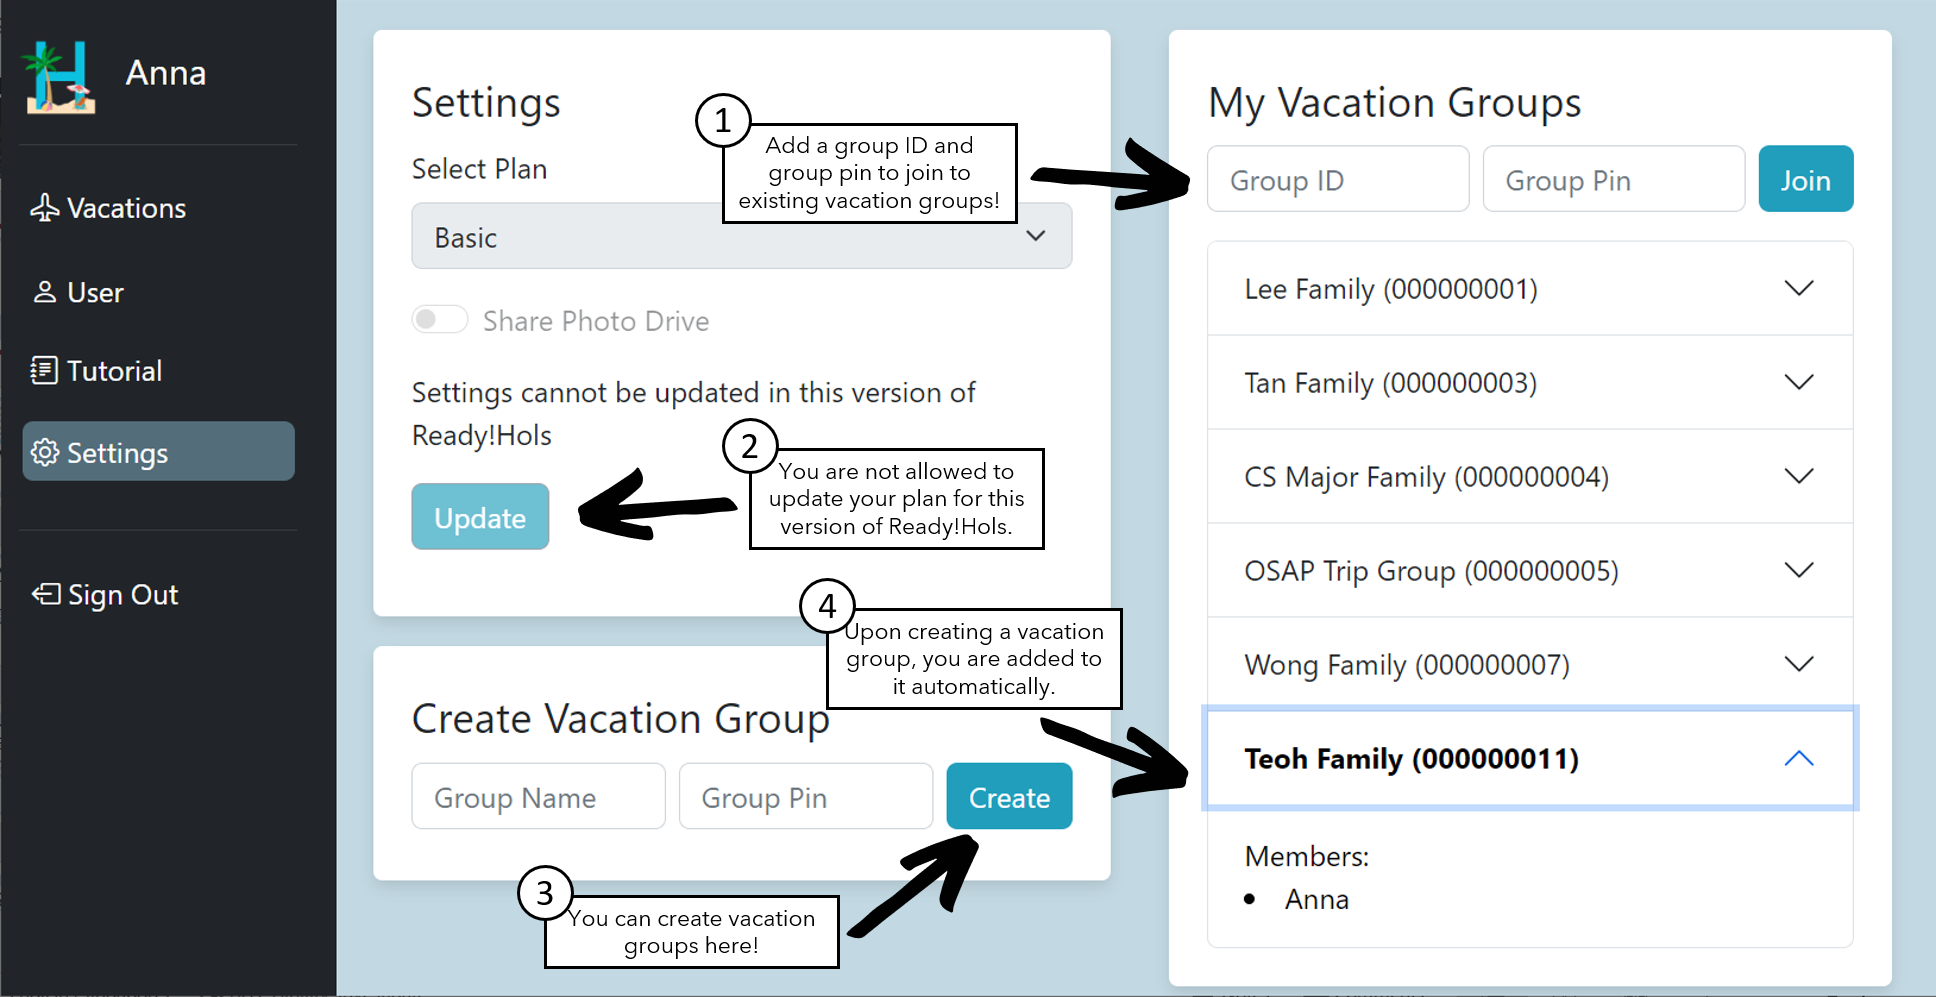
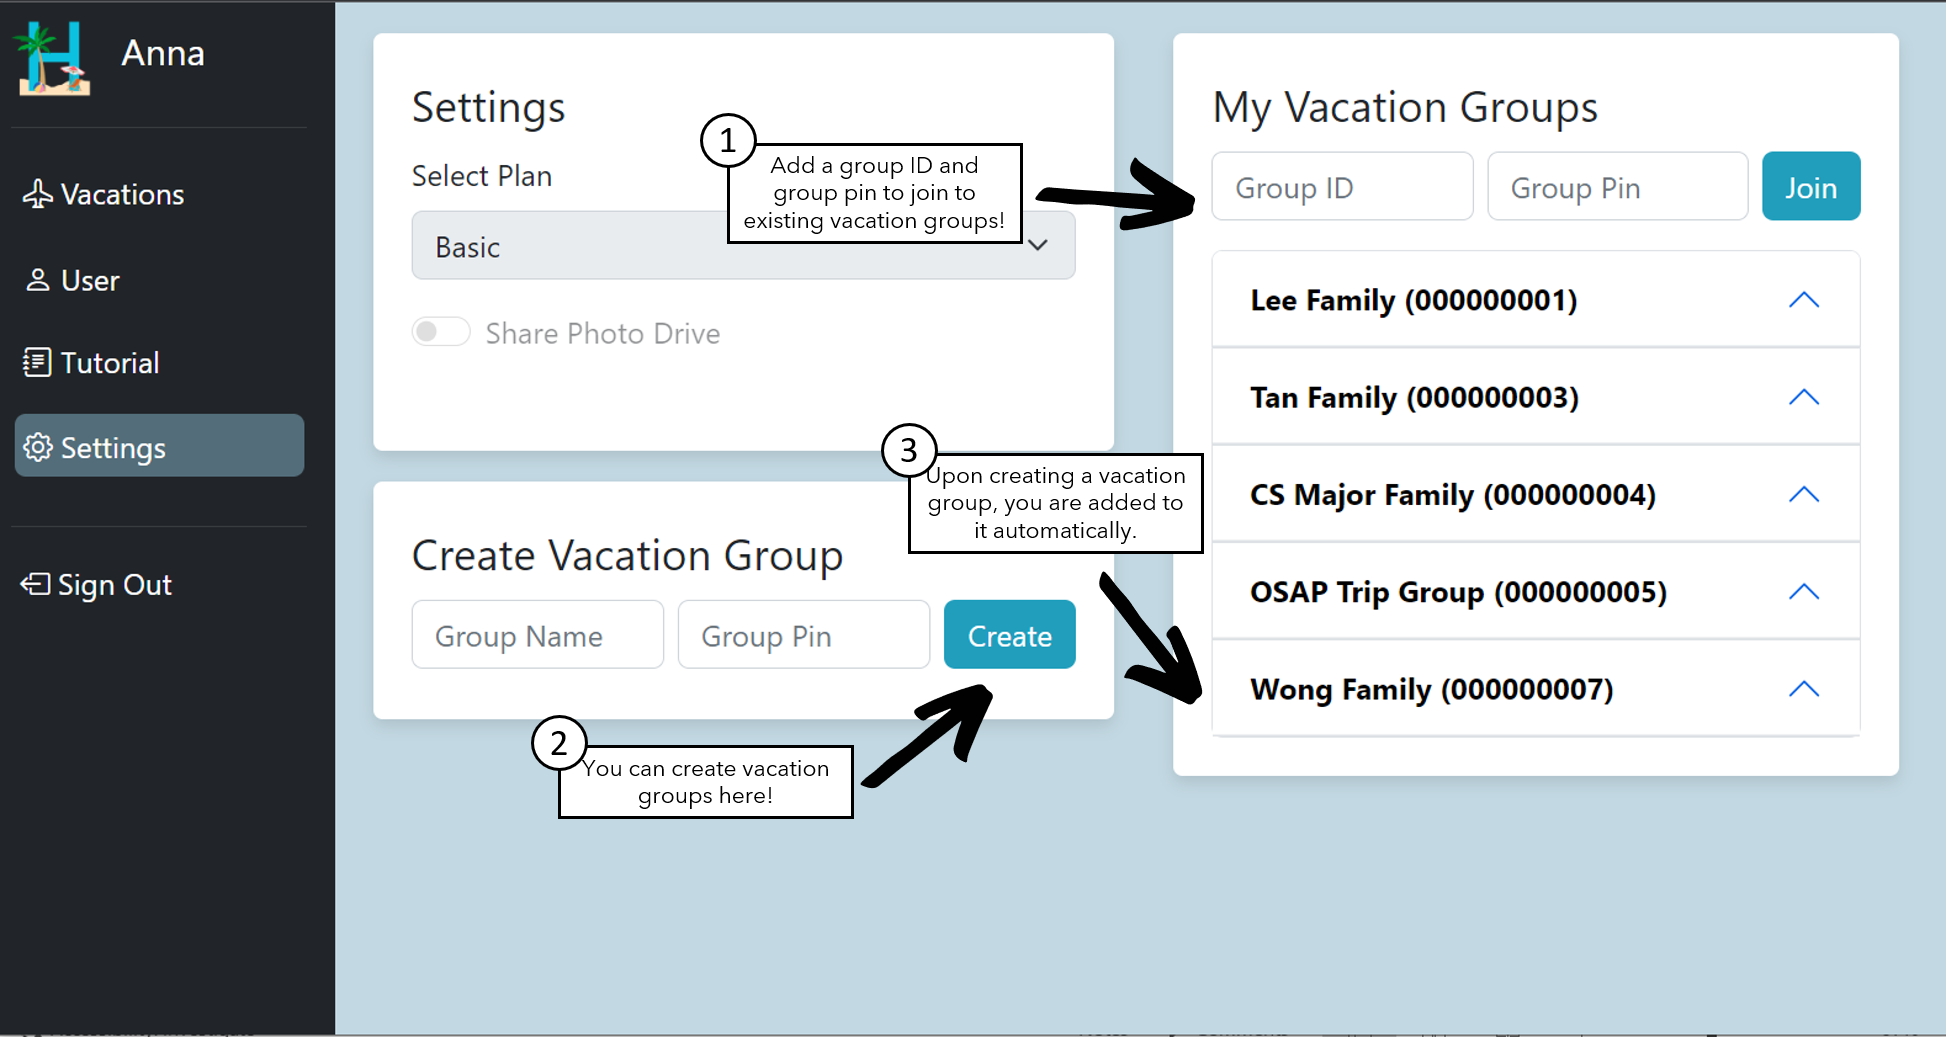
minor updates

diff --git a/templates/login/vacations/planning/itinerary-component.html b/templates/login/vacations/planning/itinerary-component.html
@@ -165,7 +165,7 @@
             
             <div class="row">
                 <div class="col" style="max-width: 50%">
-                  <input style="margin-top: 1%;" class="form-control me-2" id="add_itin_day_no" name="add_itin_day_no" placeholder="Day No" aria-label="Day No">
+                  <input type="number" style="margin-top: 1%;" class="form-control me-2" id="add_itin_day_no" name="add_itin_day_no" placeholder="Day No" aria-label="Day No">
                 </div>
                 <div class="col" style="max-width: 50%;">
                   <input type="time" style="margin-top: 1%; margin-bottom: 1%;" class="form-control me-2" id="add_itin_time" name="add_itin_time" placeholder=" Time in HH:mm:ss" aria-label="Time">

diff --git a/templates/login/settings/settings.html b/templates/login/settings/settings.html
@@ -48,11 +48,7 @@
                             <label class="form-check-label">Share Photo Drive</label>
                         </div>
                       </div>
-                      <div class="mb-3">
-                        <a>Settings cannot be updated in this version of Ready!Hols</a>
-                      </div>  
                     </fieldset>
-                    <button type="submit" class="btn btn-secondary" style="background-color: #219EBC; border-color: none;" disabled>Update</button>
             
                 </form>
             </div>

diff --git a/templates/login/vacations/planning/booking-component.html b/templates/login/vacations/planning/booking-component.html
@@ -236,7 +236,12 @@
             <td>{{i['booking_type']}}</td>
             <td>{{i['ref_no']}}</td>
             <td>{{i['description']}}</td>
+            {% if i['attachment'] is none %}
+            <td>no attachment</td>
+            {% endif %}
+            {% if i['attachment'] is not none %}
             <td><a href="/download/BOOKING/{{i['attachment']}}/" target="_blank" rel="noopener noreferrer">view attachment</a></td>
+            {% endif %}
           </tr>
         {% endfor %}
         </tbody>

diff --git a/templates/login/collapse-bar.html b/templates/login/collapse-bar.html
@@ -15,7 +15,7 @@
 
 <div class="row" style="height:100%;">
   <div class="col text-white bg-dark" style="height:100%; max-width: 18%; margin: 0%;">
-    <div class="nav_bar_container bg-dark" style="padding: 2%;">
+    <div class="nav_bar_container bg-dark" style="padding: 5% 2% 2% 4%;">
       <a class="text-white text-decoration-none">
         <img src="/static/assets/logo_transparent.png" style="width:45px;">
         <span class="fs-5" style="margin: 10px;">{{session['username']}}</span>

diff --git a/user/logged_in.py b/user/logged_in.py
@@ -84,10 +84,15 @@ def logged_settings(mysql):
         cursor.execute('SELECT vac_grp_id, vac_grp_pin from vacation_grp where vac_grp_id=%s',(vacation_group,))
         vacation_grp_details = cursor.fetchone()
 
+        cursor.execute('SELECT * from vac_user_in where vac_grp_id=%s and user_id=%s',(vacation_group,session['user_id'],))
+        is_alr_in_group = cursor.fetchone()
+
         if vacation_grp_details is None:
             flash('There is no such vacation group!','error')
         elif not check_password_hash(vacation_grp_details['vac_grp_pin'],vacation_group_pin):
             flash('Incorrect Vacation Group Pin!','error')
+        elif not is_alr_in_group is None:
+            flash('You are already in this vacation group!','error')
         else:
             cursor.execute('SELECT grp_count,plan_type from user where user_id=%s',(session['user_id'],))
             user_details = cursor.fetchone()
@@ -142,20 +147,6 @@ def create_vac_grp(mysql):
             cursor.execute('INSERT INTO vac_user_in VALUES(%s,%s)',(vacation_grp_id,session['user_id'],))
             mysql.connection.commit()
             flash('You have been created the vacation group successfully!', 'success')
-
-    cursor.execute('SELECT vac_grp_tbl.vac_grp_id, grp_name, vac_grp_pin from '
-                   '(SELECT vu2.vac_grp_id from vac_user_in vu2 where user_id=%s) as vac_user_tbl join'
-                   ' (SELECT * from vacation_grp) as vac_grp_tbl'
-                   ' on vac_grp_tbl.vac_grp_id = vac_user_tbl.vac_grp_id'
-                   ' order by vac_grp_tbl.vac_grp_id',
-                   (session['user_id'],))
-    user_vacgrp_details = cursor.fetchall()
-    print(user_vacgrp_details)
-    cursor.execute('SELECT vac_grp_id, user.user_id, username from vac_user_in, user '
-                   'where user.user_id = vac_user_in.user_id and '
-                   '(vac_grp_id in (select vu2.vac_grp_id from vac_user_in vu2 where user_id=%s))'
-                   , (session['user_id'],))
-    same_vacgrp_users = cursor.fetchall()
 
     return redirect(url_for('logged_settings'))
 

diff --git a/vacation/vacation_map.py b/vacation/vacation_map.py
@@ -41,9 +41,11 @@ def add_update_maps(type_of_update, vac_id, vacation_name, vacation_upgraded, my
                         print(final_file_path)
                         uploaded_map.save(final_file_path)
                         map_attachment_path = map_filename
-                cursor.execute('INSERT into vac_map VALUES (%s,%s,%s,%s)',(map_id,map_attachment_path,map_name,map_category,))
-                mysql.connection.commit()
-                flash('Congratulations, you have successfully added a new map to the drive!','success')
+                        cursor.execute('INSERT into vac_map VALUES (%s,%s,%s,%s)',(map_id,map_attachment_path,map_name,map_category,))
+                        mysql.connection.commit()
+                        flash('Congratulations, you have successfully added a new map to the drive!','success')
+                    else:
+                        flash('No map attached or map filename is empty!','error')
                 cursor.close()
                 return redirect(url_for('logged_vacations_planning',vac_id=vac_id,vacation_name=vacation_name,vacation_upgraded=vacation_upgraded,curr_tab='public_maps'))
     else:

diff --git a/vacation/vacation_booking.py b/vacation/vacation_booking.py
@@ -21,7 +21,7 @@ def add_update_booking(type_of_update, vac_id, vacation_name, vacation_upgraded,
             booking_category = request.form.get('booking_category')
             booking_ref_no = request.form['add_booking_ref_no']
             booking_description = request.form['add_booking_description']
-            booking_attachment_path = ""
+            booking_attachment_path = None
 
             cursor = mysql.connection.cursor(MySQLdb.cursors.DictCursor)
 
